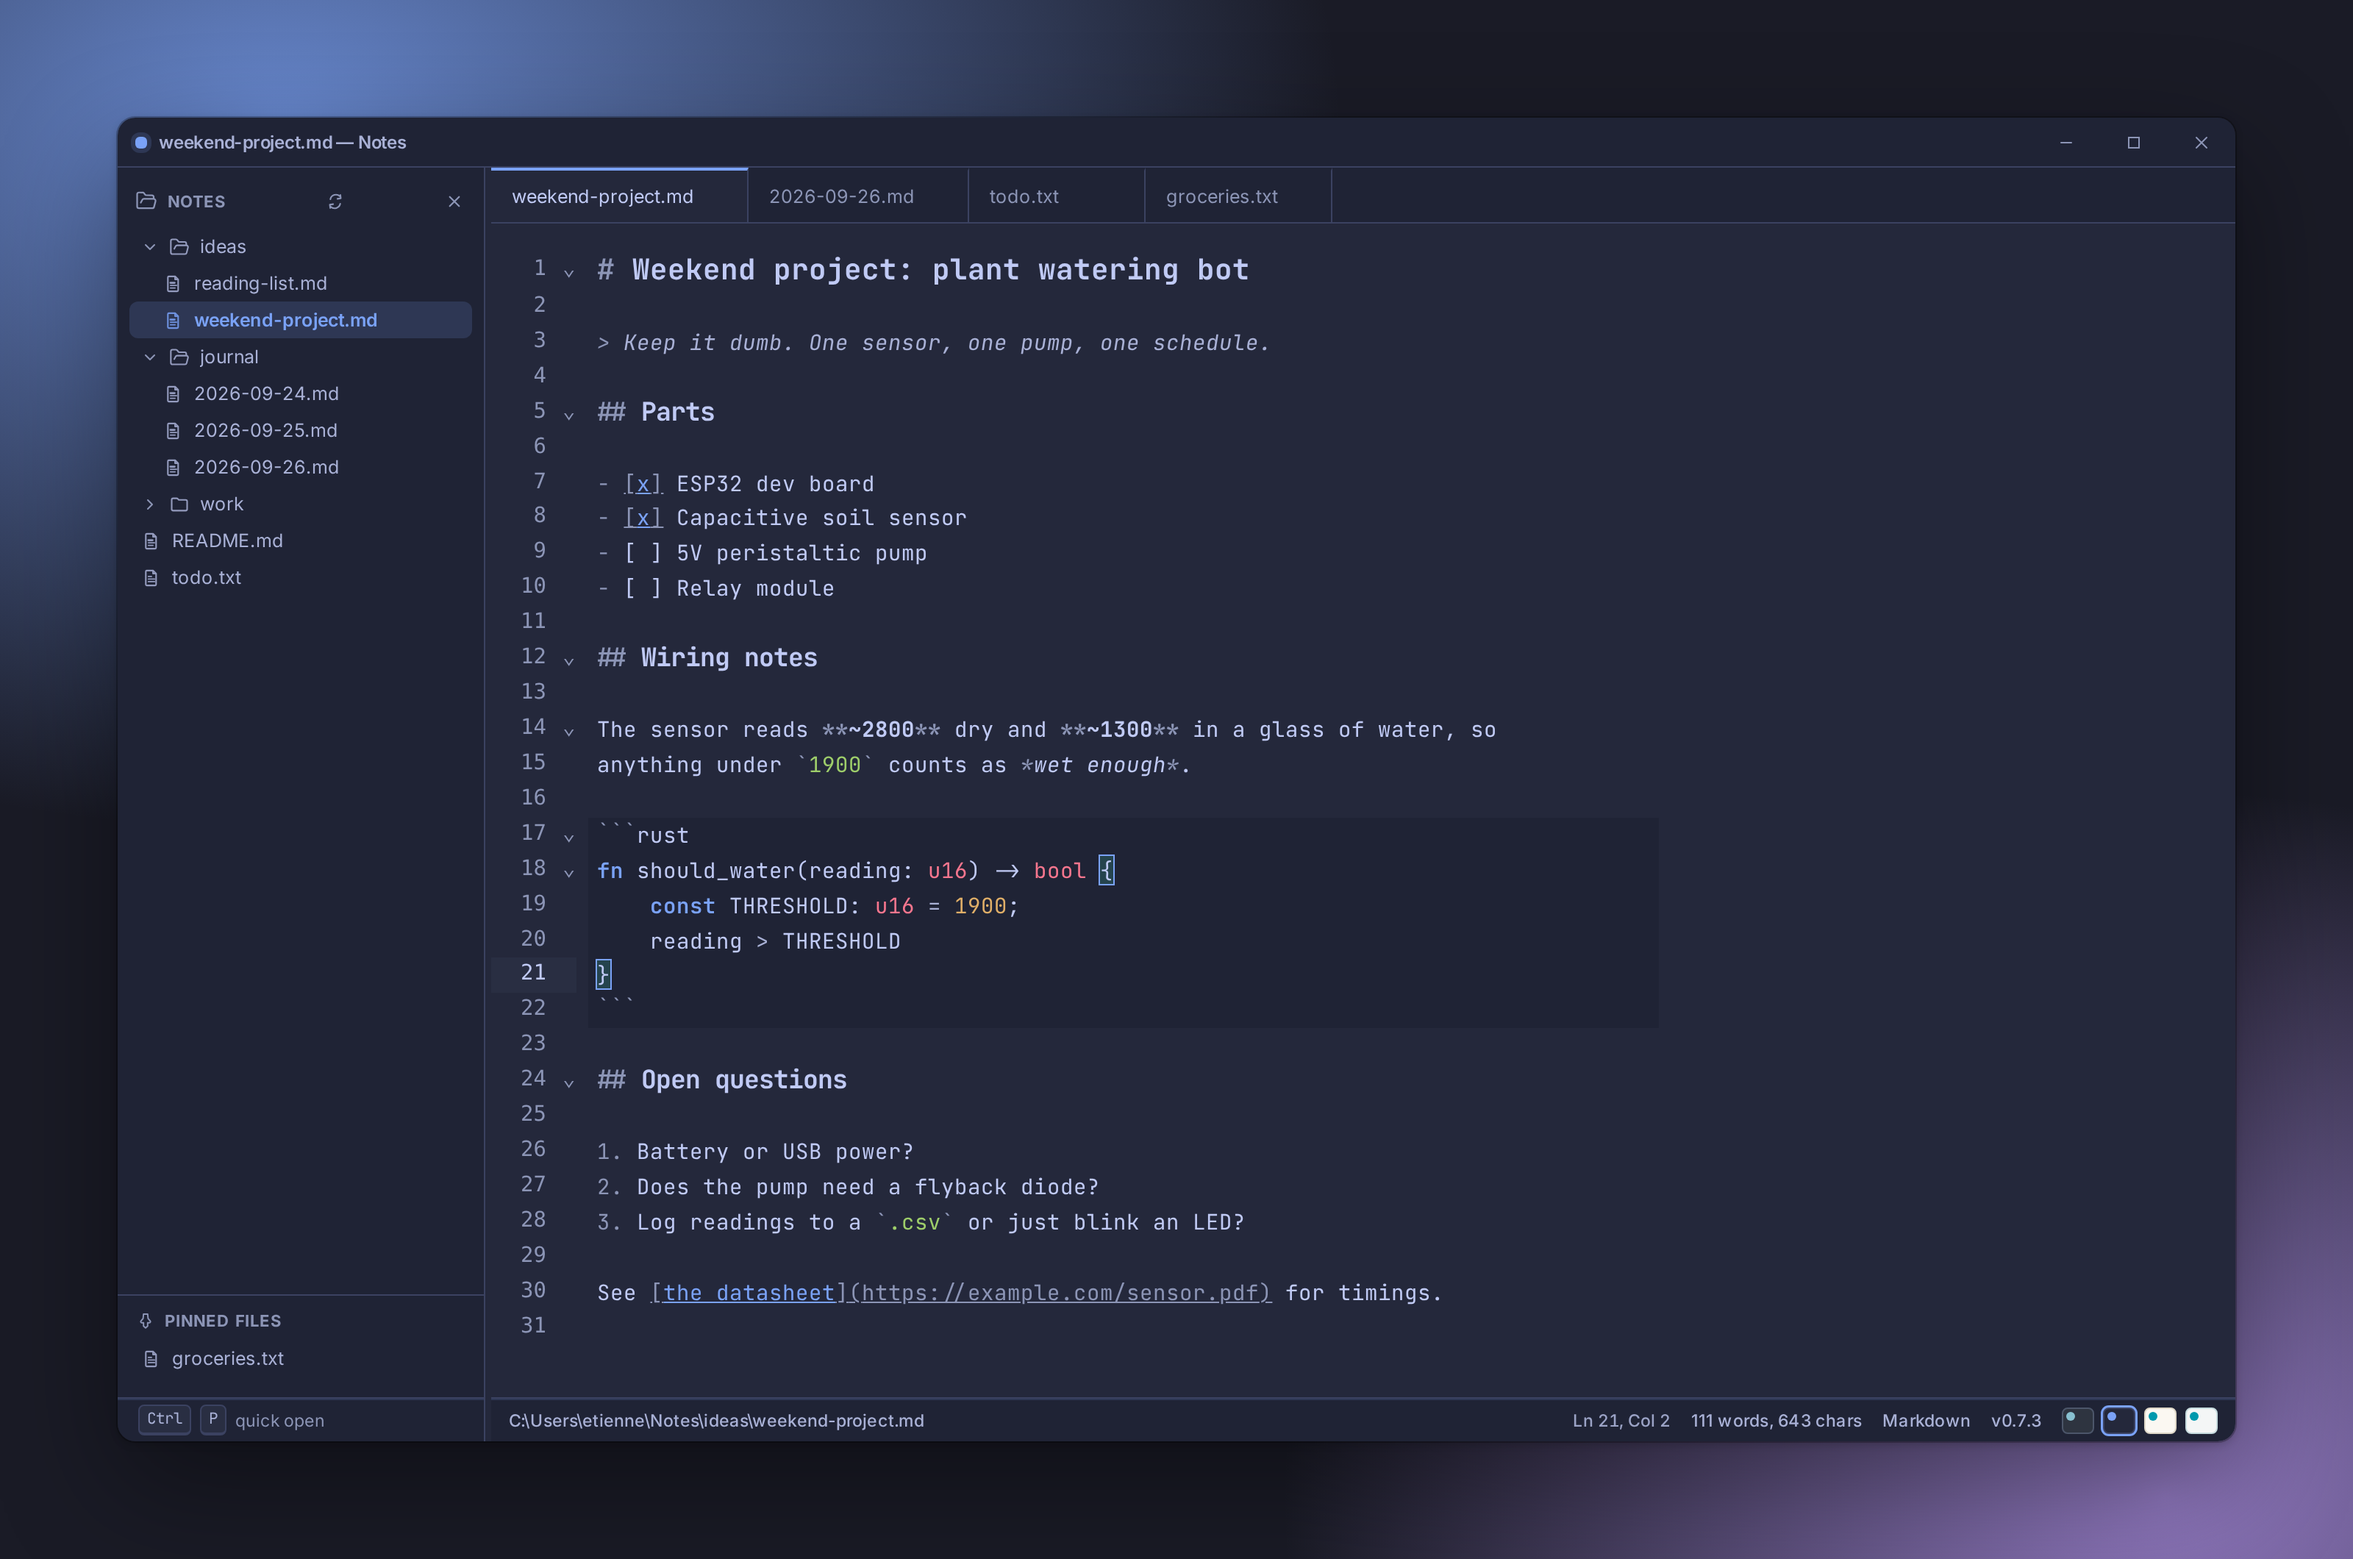
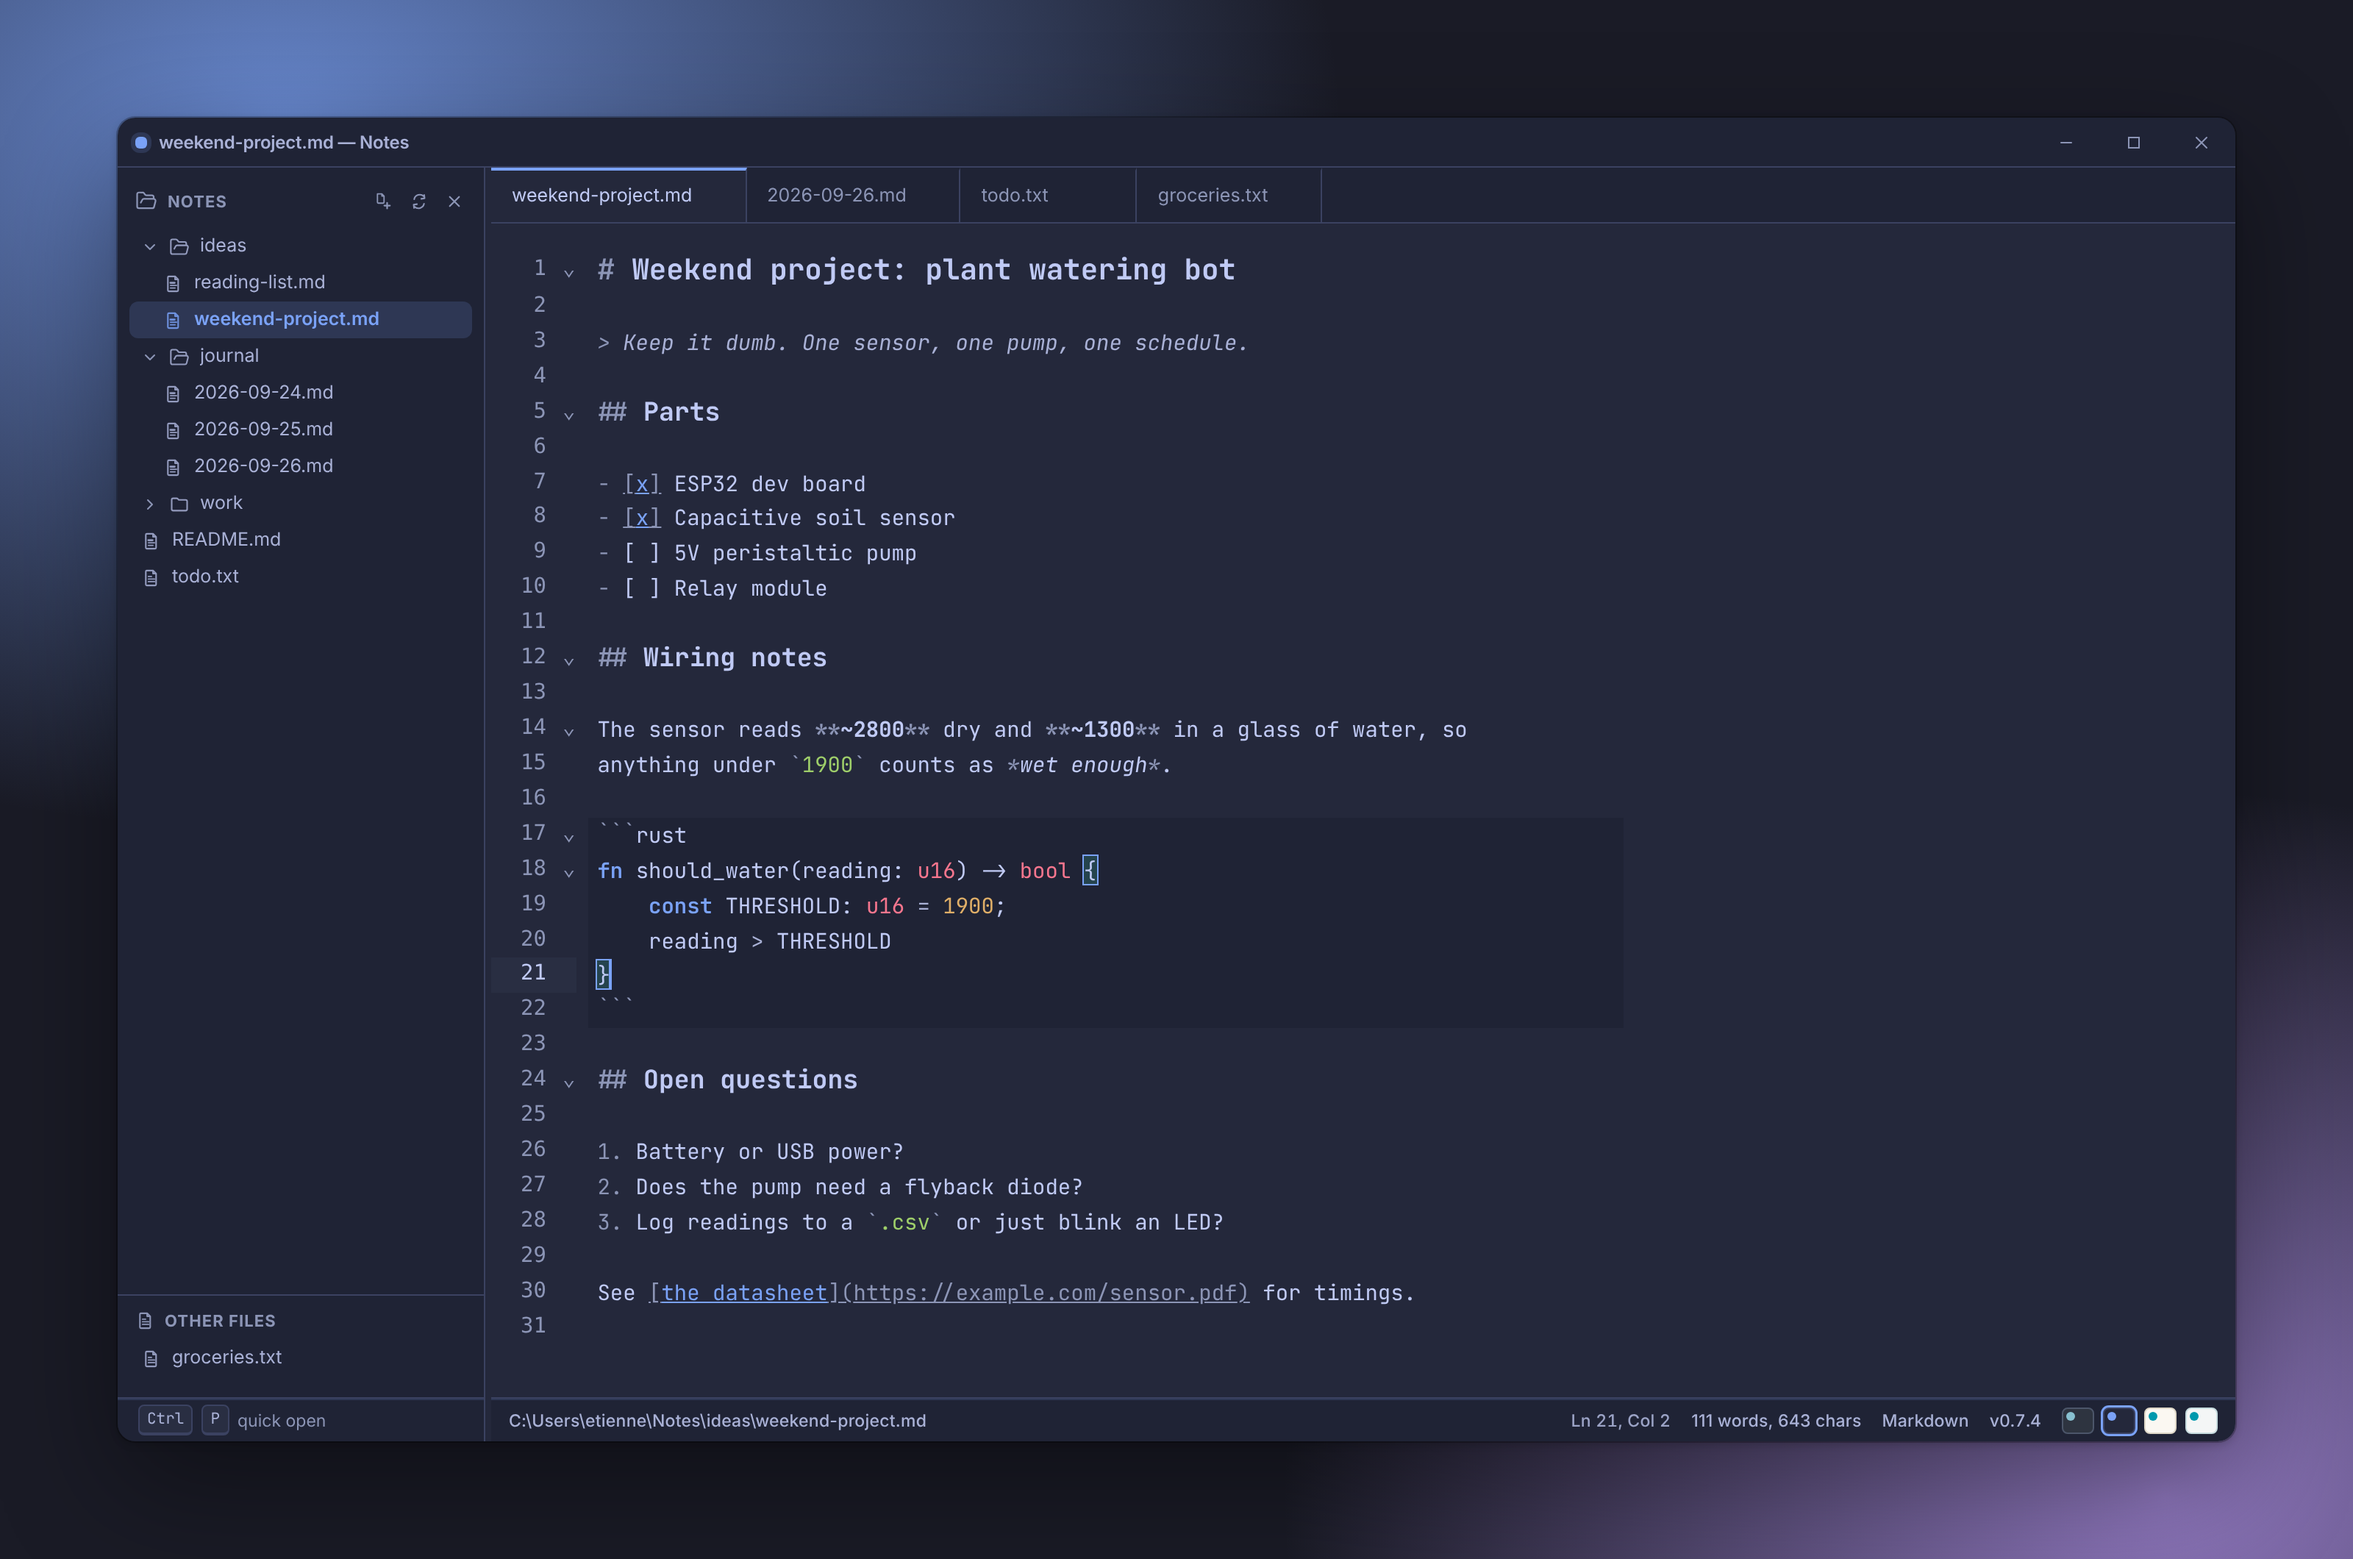
Group the sidebar header's buttons at the right; refresh screenshots
Claude-Session: https://claude.ai/code/session_01D7T6iho5rWbpdm2xys3VsG

diff --git a/src/styles.css b/src/styles.css
@@ -287,6 +287,8 @@ kbd {
   border: none;
   padding: 5px 6px;
   margin-left: -6px;
+  /* Takes the free space, so the icon buttons group at the right. */
+  margin-right: auto;
   border-radius: var(--radius-sm);
   color: var(--fg-subtle);
   font-size: 11px;

diff --git a/docs/HISTORY.md b/docs/HISTORY.md
@@ -45,6 +45,8 @@ which part of the repo it touched (`app` and/or `site`).
 - There was no way to create a note in the folder except Save As. Added
   a sidebar button and a folder **New Note…** menu item, backed by a Rust
   `create_note` that uses `create_new`, so it can never replace a file.
+  The folder header's icons now group at the right (`margin-right: auto`
+  on the title); with `space-between` a fourth button spread them out.
 - Smaller ones from the same audit: untitled tabs take the lowest free
   number ("Untitled 2"), closing the active tab activates its right-hand
   neighbour (was: the last tab), the tab menu uses the sidebar's
